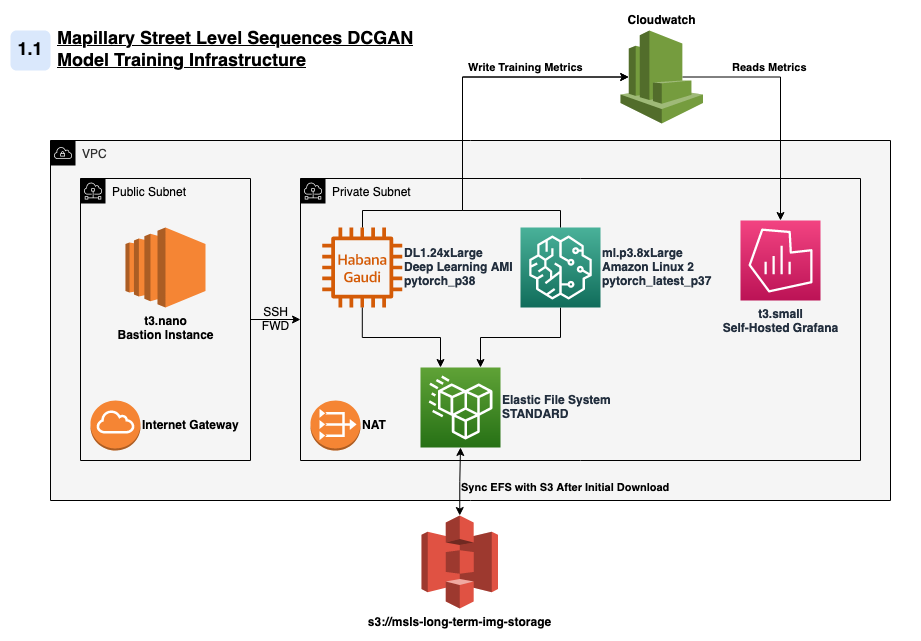
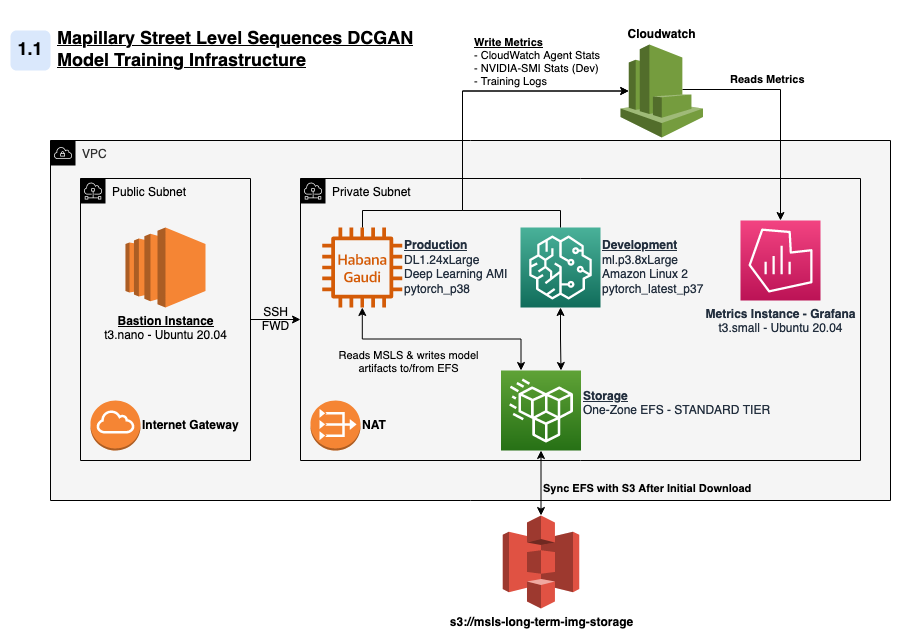
add readme notes

diff --git a/readme.md b/readme.md
@@ -1,18 +1,19 @@
 
 # About
 
-This repository contains the AWS infrastructure used to train [msls-dcgan](https://github.com/DMW2151/msls-pytorch-dcgan). Generally, the architecture can be described by the image below:
+This repository provisions the AWS infrastructure used to train a deep learning model using either Sagemaker or Habana DL1 instances. Specifically, this infrastructure aids in training a Pytorch [re-implementation of DCGAN]([msls-dcgan](https://github.com/DMW2151/msls-pytorch-dcgan)). Generally, the system architecture can be described by the image below:
 
 ![msls-gan-architecture](images/arch.png)
 
 ## Usage
 
-**N.B: This repo does not download (nor provision pipelines to download) MSLS data, you may access it from your own signed URL [here](https://www.mapillary.com/dataset/places).**
+**N.B**:
 
+- **WARNING:** This module deploys live resources into your AWS account, please be mindful of the costs associated with those resources.
+  
+- **NOTE:** This module does not download (nor provision pipelines to download) MSLS data, you may access it from your own signed URL [here](https://www.mapillary.com/dataset/places)
 
-If you're so inclined, you can replicate the full architecure by running `terraform apply` from this repository. However, there are dozens of resources deployed by this configuration and I suspect your time would be better served by simply cloning `msls-dcgan` to a standalone Sagemaker (Testing, `P2` or `P3`) or EC2 (`DL1`) instance.
-
-If you're resolute in your desire to run this precise architecture, please review the variable definitions in each of the modules and adjust accordingly.
+If you're so inclined, you can replicate the full architecure by running `terraform apply` from this repository. However, I suspect your time would be better served by simply cloning `msls-dcgan` to a standalone Sagemaker or EC2 (`DL1`) instance. If you're resolute in your desire to run this precise architecture, please review the variable definitions in each of the modules' `variable.tf` files and adjust accordingly.
 
 In practice, only one of `train-model` or `train-model-dev` modules is run at a time, although if you're conscientious about stopping your instances, there's no reason both can't run simultaneously.
 
@@ -20,23 +21,56 @@ In practice, only one of `train-model` or `train-model-dev` modules is run at a 
 
 ### Core
 
-- TBD
+The core module contains the networking and security features required for the remaining resources in the infrastructure. Notably, this module deploys:
+
+- A VPC with two subnets (1 public, 1 private) in the same availability zone (**Note:**  `DL1` and `P3` instances are not available in all regions and zones ).
+- A jump instance in the VPC's public subnet
+- An AWS Elastic Filesystem (EFS) that can be mounted from the VPC's private subnet
 
 --------
 
 ### Development - Sagemaker P3.8xLarge
 
-- TBD
+I used Sagemaker Notebook instances to develop the model's core functionality and get a rough comparison of the training performance of `DL1` against a GPU-backed instance.
+
+This module, `train-dev`, launches a Sagemaker Notebook instance into the VPC's private subnet, clones my model code from [Github](https://github.com/DMW2151/msls-pytorch-dcgan), and mounts the EFS volume to the instance. In the background, this instance is configured such that it's exporting GPU and memory statistics to CloudWatch.
+
+I was able to develop and test the model's functionality on `ml.p2.xlarge` (`$0.90/hr`) instances, however this instance type is not a reasonable comparison to the `DL1`. Instead, this module launches a `ml.p3.8xlarge` (`$12.45/hr`) notebook instance. Specific reasons for this choice in the context of the project are discussed in my main post.
+
+Once in the Sagemaker console, the model can be trained by running the notebook `./models/gaudi_dcgan_nb.ipynb`.
 
 --------
 
 ### Production - AWS Habana Deep Learning AMI - DL1.24xLarge
 
-- TBD
+I used a `DL1.24xlarge` running the Deep Learning AMI as my main training instance. This machine runs in the VPC's private subnet and must be accessed via SSH tunnelling. 
+
+The module `train-prod` provisions this machine and outputs the value of the instance's internal IP as `training_instance_ip` . Using this IP and the `jump_ip_addr` from `mlcore`, a user can SSH to the instance.
+
+```bash
+# SSH Local to Jump
+ssh -A ubuntu@${JUMP_IP} -i ${PATH_TO_KEY}
+
+# SSH Jump to DL1
+ssh ubuntu@${TRAINING_INSTANCE_IP}
+```
+
+As with the Sagemaker Notebook instance, the init script for this instance handles configuring mounts, permissions, and metrics. Once in the instance, the model can be trained with just the following:
+
+```bash
+source activate pytorch_p38
+
+python3 run_gaudi_dcgan.py \
+    --dataroot "/efs/images/" \
+    --seed 215 \
+    --name msls_2022_01_24_001 \
+    --s_epoch 0 \
+    --n_epoch 16
+```
 
 --------
 
-### Grafana
+### Grafana - Stats Monitor
 
 [Grafana](https://grafana.com/) is an open source analytics & monitoring solution that can be used to create charts from a variety of external data sources. A Grafana instance is not required to perform any model training or analysis, although many of the charts from my main post have been generated from the Grafana UI.
 
